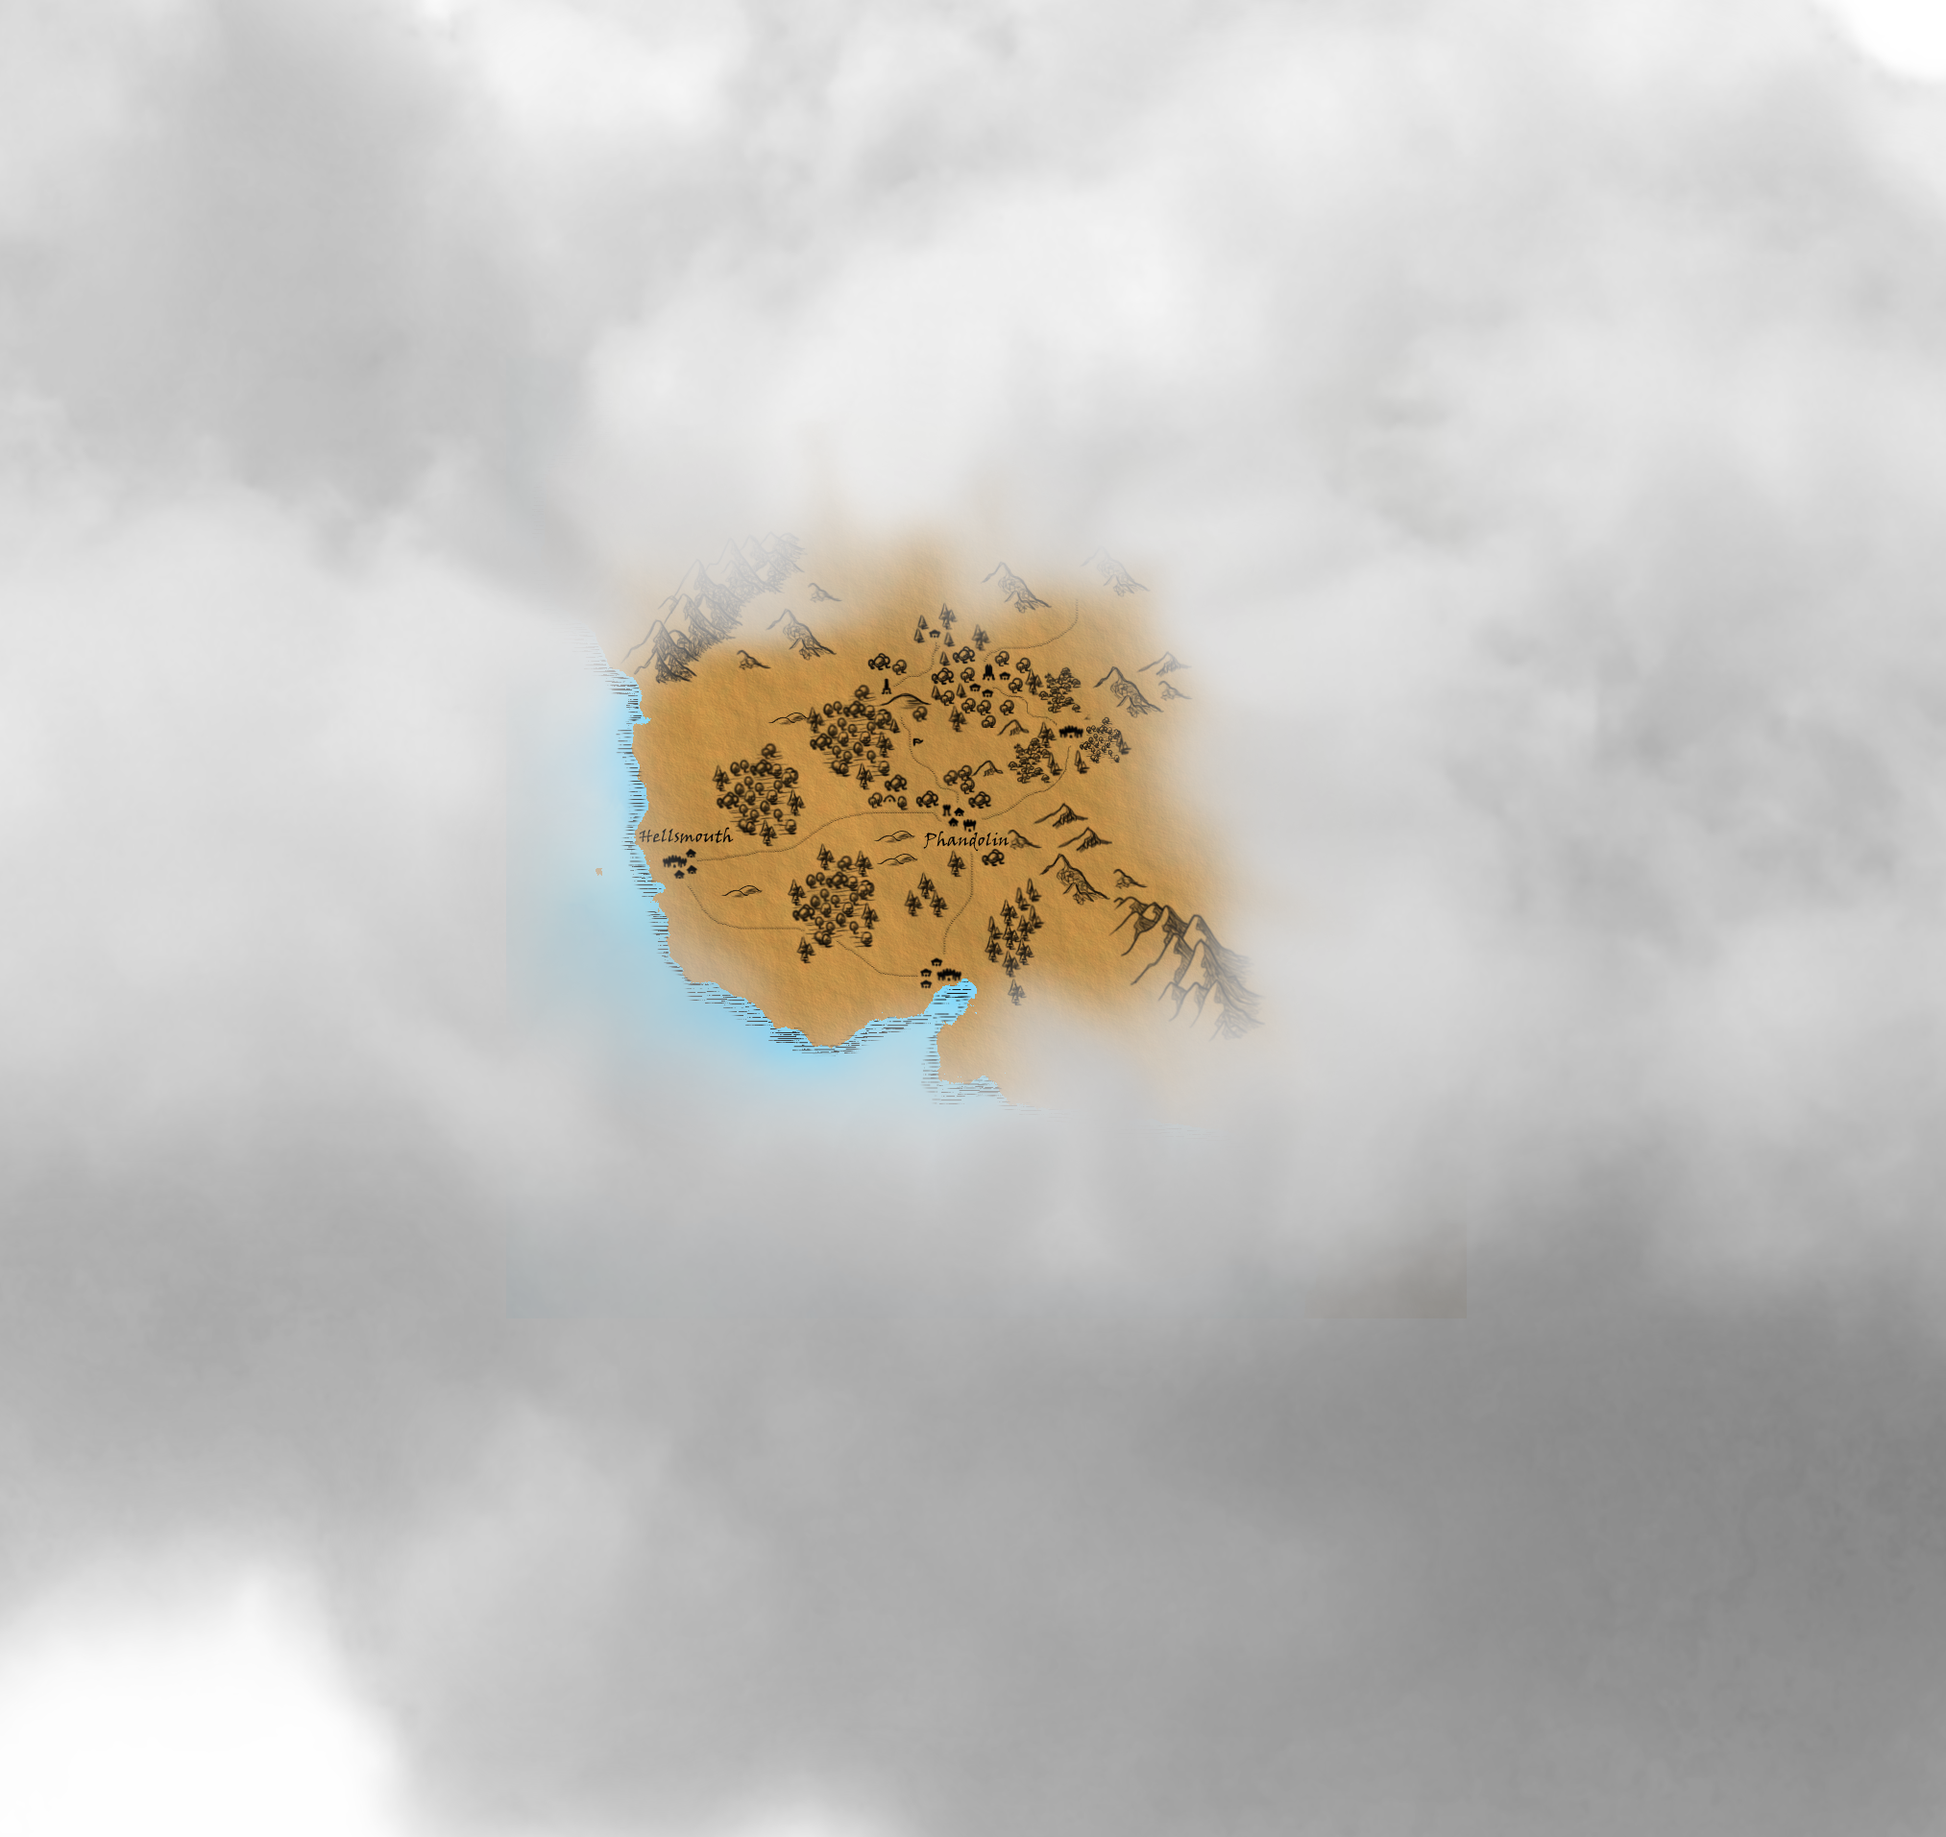
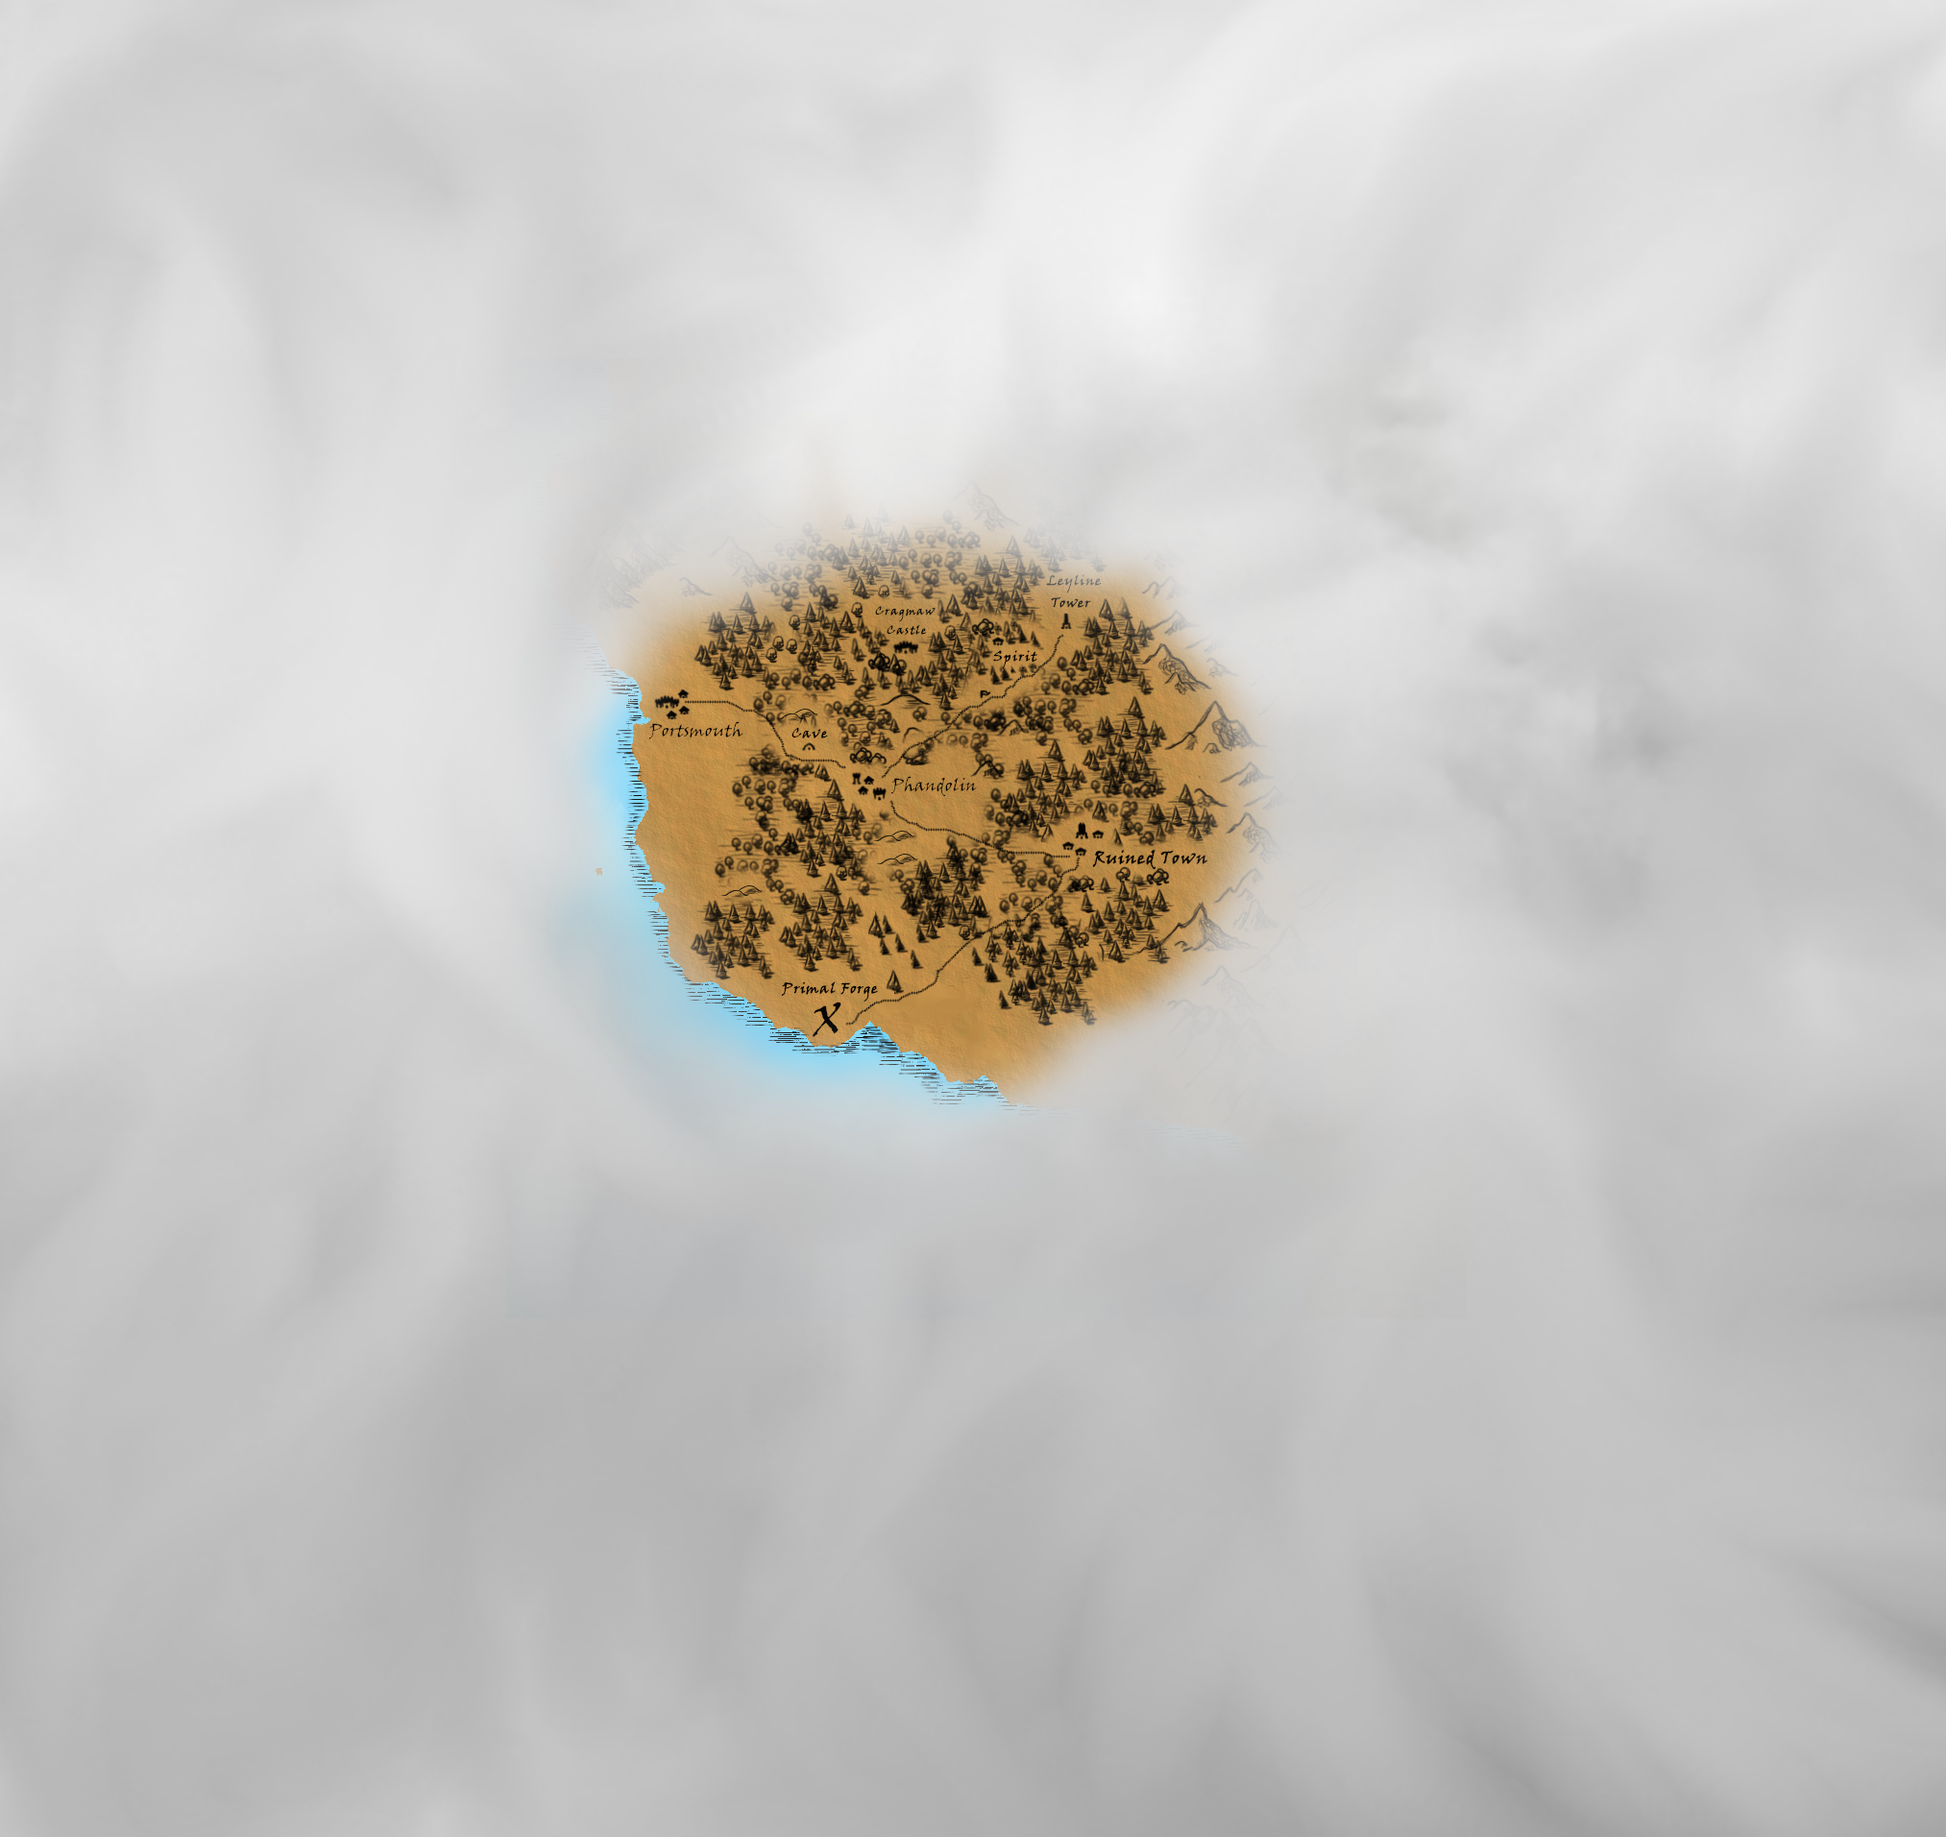
Update Map
changed the map

diff --git a/scripts/nova-firebase.js b/scripts/nova-firebase.js
@@ -1,0 +1,161 @@
+
+var config = {
+  apiKey: "AIzaSyClcH0NPVJJ5ToYDZd8nLbthBGlMNVjZ0M",
+  authDomain: "python-clockwork-warriors.firebaseapp.com",
+  databaseURL: "https://python-clockwork-warriors.firebaseio.com",
+};
+
+firebase.initializeApp(config);
+
+var users = firebase.database().ref('users');
+var quests = firebase.database().ref('quests');
+var chapters = firebase.database().ref('chapters');
+
+
+
+
+function getUsers(divID)
+{
+	var obj = document.getElementById(divID);
+    
+    obj.innerHTML = "";
+    
+    var chars = new Array(); 
+    var lvl = new Array();    
+    var hps = new Array(); 
+    var exp = new Array();  
+    
+    users.orderByValue().on("value", function(characters) {
+    
+        var i = 0;
+        var html = "";
+        var dropdowns = "";
+        var btnNum = 0;
+        
+        uid     = [];
+        
+        chars   = [];
+        lvl     = []; 
+        exp     = [];   
+        hps     = [];  
+        hmax    = []; 
+        
+        rc      = []; 
+        cls     = [];
+    
+        html = "<table id='users-table'>"
+        html += "<tr class='ff7-header'>"
+        html += "<td style='width:150px'>Name</td>"
+        html += "<td style='width:100px' align='center'>Lvl</td>"
+        html += "<td style='width:150px'>Race</td>"
+        html += "<td style='width:100px'>Class</td>"
+        html += "<td style='width:50px'> </td>"
+        html += "</tr>"
+        //html += "<td style='width:100px' align='center'>Exp</td>"
+        
+        characters.forEach(function(userid) {
+                
+            userid.forEach(function(attribute) {
+                
+                uid[i] = userid.key
+                
+                if(attribute.key == "cname") {
+                    chars[i] = attribute.val();
+                    //chars[i] = userid.key
+                }
+                
+                if(attribute.key == "exp") {
+                    exp[i] = attribute.val();
+                }
+                else if(attribute.key == "health") {
+                    hps[i] = attribute.val();
+                }
+                else if(attribute.key == "healthmax") {
+                    hmax[i] = attribute.val();
+                }
+                else if(attribute.key == "level") {
+                    lvl[i] = attribute.val();
+                }
+                else if(attribute.key == "race") {
+                    rc[i] = attribute.val();
+                }
+                else if(attribute.key == "class") {
+                    cls[i] = attribute.val();
+                }
+                else if( attribute.key == "power" || attribute.key == "magic" ) {
+                    // empty for now
+                }
+                else {
+                    // empty ? 
+                }
+                
+            });
+            
+            if( (typeof chars[i] != 'undefined') && (uid[i] != 108488361739358892865) ) {
+                html += "<tr>"
+                
+                if(typeof lvl[i] == 'undefined'){
+                    lvl[i] = "?"
+                }            
+                if(typeof hps[i] == 'undefined'){
+                    hps[i] = "?"
+                }             
+                if(typeof hmax[i] == 'undefined'){
+                    hmax[i] = "?"
+                }           
+                if(typeof exp[i] == 'undefined'){
+                    exp[i] = "?"
+                }            
+                if(typeof rc[i] == 'undefined'){
+                    rc[i] = "???"
+                }      
+                if(typeof cls[i] == 'undefined'){
+                    cls[i] = "???"
+                }             
+                
+                html += "<td>"
+                html += chars[i].split(":")[0]
+                //html += uid[i]
+                html += "</td>"
+                
+                //html += "<td>"
+                html += "<td align='center'>"
+                html += lvl[i]
+                html += "</td>"
+                
+                html += "<td>"
+                //html += "<td align='center'>"
+                html += rc[i]
+                html += "</td>"
+                
+                html += "<td>"
+                //html += "<td align='center'>"
+                html += cls[i]
+                html += "</td>"
+                
+                var userId = userid.key
+                
+                userId1 = userId.slice(0,10)
+                userId2 = userId.slice(10,userId.length)
+                
+                html += "<td align='center'>"
+                html += "<button "
+                html += "type='action-button' "
+                html += "class='ff7 dropbtn' "                      // CHANGE "dropbtn" TO "dropbtn-disabled" TO DISABLE
+                html += "onclick='actionClick("
+                html += userId1 + "," + userId2 + "," + btnNum      // COMMENT TO DISABLE
+                html += ")' >"
+                html += "Action</button></td></td>"
+                html += "</tr>"   
+                html += "</tr>"
+                
+                btnNum++; 
+            }
+            i++;   
+            
+        });        
+        html += "</table>"  
+        obj.innerHTML = html
+        settingsGet();
+    });
+}

diff --git a/scripts/nova.js b/scripts/nova.js
@@ -1,0 +1,161 @@
+
+var config = {
+  apiKey: "AIzaSyClcH0NPVJJ5ToYDZd8nLbthBGlMNVjZ0M",
+  authDomain: "python-clockwork-warriors.firebaseapp.com",
+  databaseURL: "https://python-clockwork-warriors.firebaseio.com",
+};
+
+firebase.initializeApp(config);
+
+var users = firebase.database().ref('users');
+var quests = firebase.database().ref('quests');
+var chapters = firebase.database().ref('chapters');
+
+
+
+
+function getUsers(divID)
+{
+	var obj = document.getElementById(divID);
+    
+    obj.innerHTML = "";
+    
+    var chars = new Array(); 
+    var lvl = new Array();    
+    var hps = new Array(); 
+    var exp = new Array();  
+    
+    users.orderByValue().on("value", function(characters) {
+    
+        var i = 0;
+        var html = "";
+        var dropdowns = "";
+        var btnNum = 0;
+        
+        uid     = [];
+        
+        chars   = [];
+        lvl     = []; 
+        exp     = [];   
+        hps     = [];  
+        hmax    = []; 
+        
+        rc      = []; 
+        cls     = [];
+    
+        html = "<table id='users-table'>"
+        html += "<tr class='ff7-header'>"
+        html += "<td style='width:150px'>Name</td>"
+        html += "<td style='width:100px' align='center'>Lvl</td>"
+        html += "<td style='width:150px'>Race</td>"
+        html += "<td style='width:100px'>Class</td>"
+        html += "<td style='width:50px'> </td>"
+        html += "</tr>"
+        //html += "<td style='width:100px' align='center'>Exp</td>"
+        
+        characters.forEach(function(userid) {
+                
+            userid.forEach(function(attribute) {
+                
+                uid[i] = userid.key
+                
+                if(attribute.key == "cname") {
+                    chars[i] = attribute.val();
+                    //chars[i] = userid.key
+                }
+                
+                if(attribute.key == "exp") {
+                    exp[i] = attribute.val();
+                }
+                else if(attribute.key == "health") {
+                    hps[i] = attribute.val();
+                }
+                else if(attribute.key == "healthmax") {
+                    hmax[i] = attribute.val();
+                }
+                else if(attribute.key == "level") {
+                    lvl[i] = attribute.val();
+                }
+                else if(attribute.key == "race") {
+                    rc[i] = attribute.val();
+                }
+                else if(attribute.key == "class") {
+                    cls[i] = attribute.val();
+                }
+                else if( attribute.key == "power" || attribute.key == "magic" ) {
+                    // empty for now
+                }
+                else {
+                    // empty ? 
+                }
+                
+            });
+            
+            if( (typeof chars[i] != 'undefined') && (uid[i] != 108488361739358892865) ) {
+                html += "<tr>"
+                
+                if(typeof lvl[i] == 'undefined'){
+                    lvl[i] = "?"
+                }            
+                if(typeof hps[i] == 'undefined'){
+                    hps[i] = "?"
+                }             
+                if(typeof hmax[i] == 'undefined'){
+                    hmax[i] = "?"
+                }           
+                if(typeof exp[i] == 'undefined'){
+                    exp[i] = "?"
+                }            
+                if(typeof rc[i] == 'undefined'){
+                    rc[i] = "???"
+                }      
+                if(typeof cls[i] == 'undefined'){
+                    cls[i] = "???"
+                }             
+                
+                html += "<td>"
+                html += chars[i].split(":")[0]
+                //html += uid[i]
+                html += "</td>"
+                
+                //html += "<td>"
+                html += "<td align='center'>"
+                html += lvl[i]
+                html += "</td>"
+                
+                html += "<td>"
+                //html += "<td align='center'>"
+                html += rc[i]
+                html += "</td>"
+                
+                html += "<td>"
+                //html += "<td align='center'>"
+                html += cls[i]
+                html += "</td>"
+                
+                var userId = userid.key
+                
+                userId1 = userId.slice(0,10)
+                userId2 = userId.slice(10,userId.length)
+                
+                html += "<td align='center'>"
+                html += "<button "
+                html += "type='action-button' "
+                html += "class='ff7 dropbtn' "                      // CHANGE "dropbtn" TO "dropbtn-disabled" TO DISABLE
+                html += "onclick='actionClick("
+                html += userId1 + "," + userId2 + "," + btnNum      // COMMENT TO DISABLE
+                html += ")' >"
+                html += "Action</button></td></td>"
+                html += "</tr>"   
+                html += "</tr>"
+                
+                btnNum++; 
+            }
+            i++;   
+            
+        });        
+        html += "</table>"  
+        obj.innerHTML = html
+        settingsGet();
+    });
+}

diff --git a/_includes/head-nova.html b/_includes/head-nova.html
@@ -1,0 +1,24 @@
+<head>
+
+    <title></title>
+    
+    <meta name="viewport" content="width=device-width">
+    <meta http-equiv="X-UA-Compatible" content="IE=edge">
+    <meta charset="utf-8">
+    
+    <!-- Firebase -->
+    <!--script src="https://www.gstatic.com/firebasejs/4.13.0/firebase.js"></script-->
+    <!--script src="https://www.gstatic.com/firebasejs/6.0.2/firebase.js"></script-->
+    <script src="https://www.gstatic.com/firebasejs/6.0.2/firebase-app.js"></script>
+    <script src="https://www.gstatic.com/firebasejs/6.0.2/firebase-database.js"></script>
+    
+    <!-- Google Signin -->
+    <meta name="google-signin-client_id" content="602129261580-nbcah81gmnm5s7u9a6ntkl0p4neegkks.apps.googleusercontent.com">
+
+    <!-- Local CSS -->
+    <link rel="stylesheet" href=".\css\nova.css">
+    
+    <!-- Local Scripts -->
+    <script type="text/javascript" src="/scripts/nova.js"></script>
+    
+</head>

diff --git a/clockwork.html b/clockwork.html
@@ -425,7 +425,8 @@ title: ""
         
             <div class="maps-img-div ff7" >
                 <div id="id-maps-div-img" class="maps-div-div" >
-                    <img src="../images/dnd-map-cloud2.png" id="id-maps-img" class="maps-img" ></img>
+                    <!--img src="../images/dnd-map-cloud2.png" id="id-maps-img" class="maps-img" ></img-->
+                    <img src="../images/dnd-map-cloud.png" id="id-maps-img" class="maps-img" ></img>
             
                 </div>
                 

diff --git a/css/nova.css b/css/nova.css
@@ -1,0 +1,14 @@
+
+
+@viewport{width:device-width}
+@-o-viewport{width:device-width}
+@-ms-viewport{width:device-width}
+@-moz-viewport{width:device-width}
+@-webkit-viewport{width:device-width}
+
+
+html, body{
+    background-image: url("../images/white-waves.png"); 
+
+}
+

diff --git a/_layouts/nova.html b/_layouts/nova.html
@@ -1,0 +1,9 @@
+<!DOCTYPE html>
+
+<html>
+
+    {% include head-nova.html %}
+
+    {{ content }}
+    
+</html>

diff --git a/nova.html b/nova.html
@@ -1,0 +1,10 @@
+---
+layout: nova
+title: "Terra Nova"
+---
+
+<body>
+
+    Terra Nova
+
+</body>
